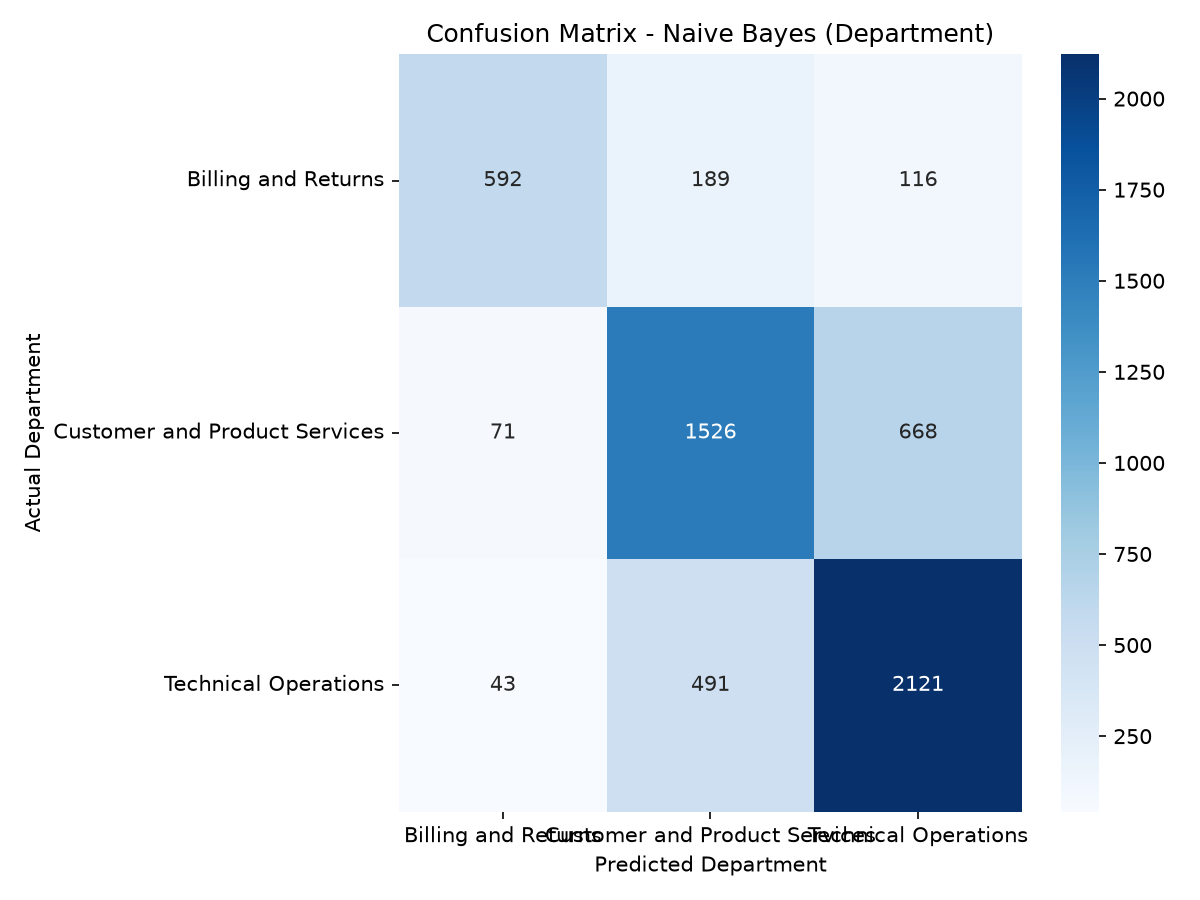
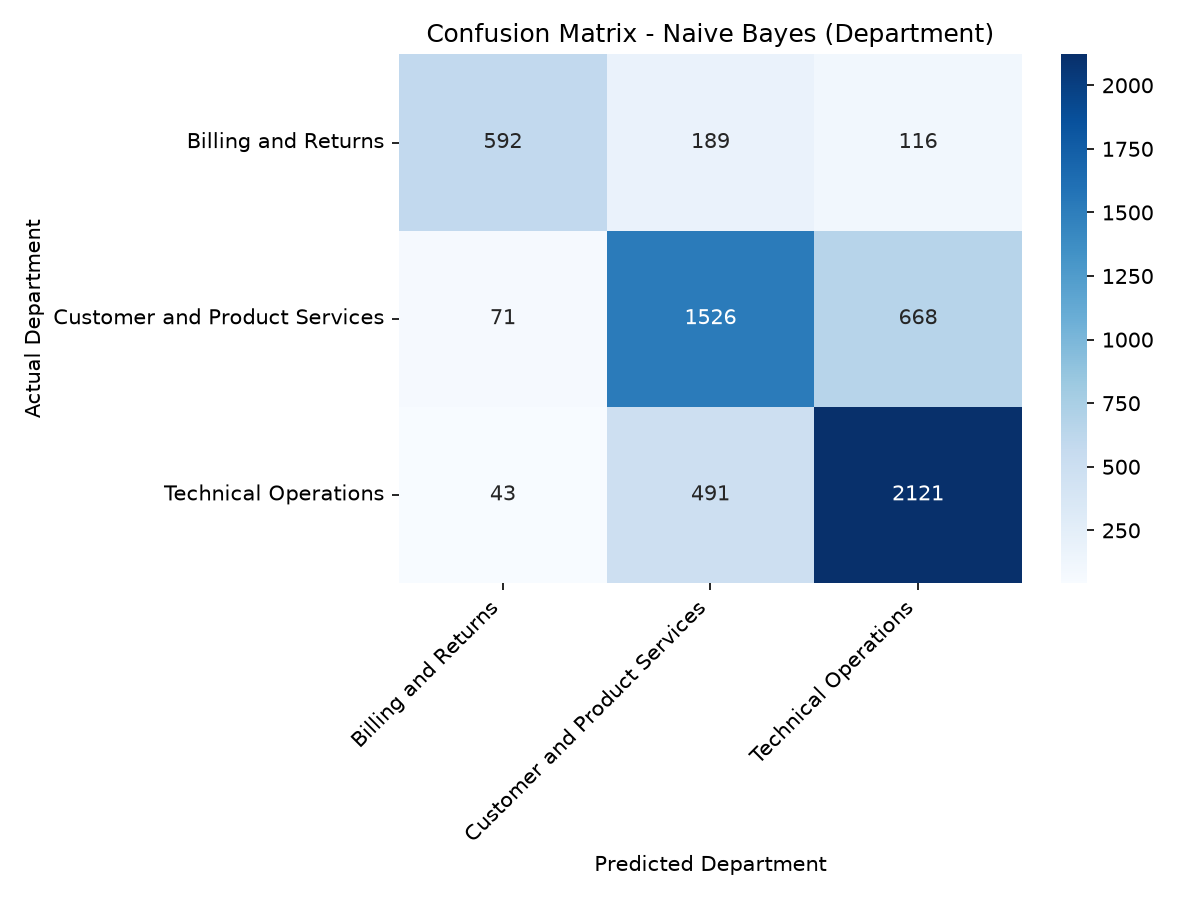
image

diff --git a/src/models/Train_Naive_Bayes_dept.py b/src/models/Train_Naive_Bayes_dept.py
@@ -72,7 +72,7 @@ save_report_metrics(y_test, y_pred, "Naive Bayes", "Department")
 
 #Confusion matrix
 labels = sorted(y.unique())
-plot_confusion_matrix(y_test, y_pred, labels, "Naive Bayes", "nb", "Department", cmap='Blues', figsize=(8, 6), xtick_rotation=0)
+plot_confusion_matrix(y_test, y_pred, labels, "Naive Bayes", "nb", "Department", cmap='Blues', figsize=(8, 6))
 
 
 #Quick manual test
